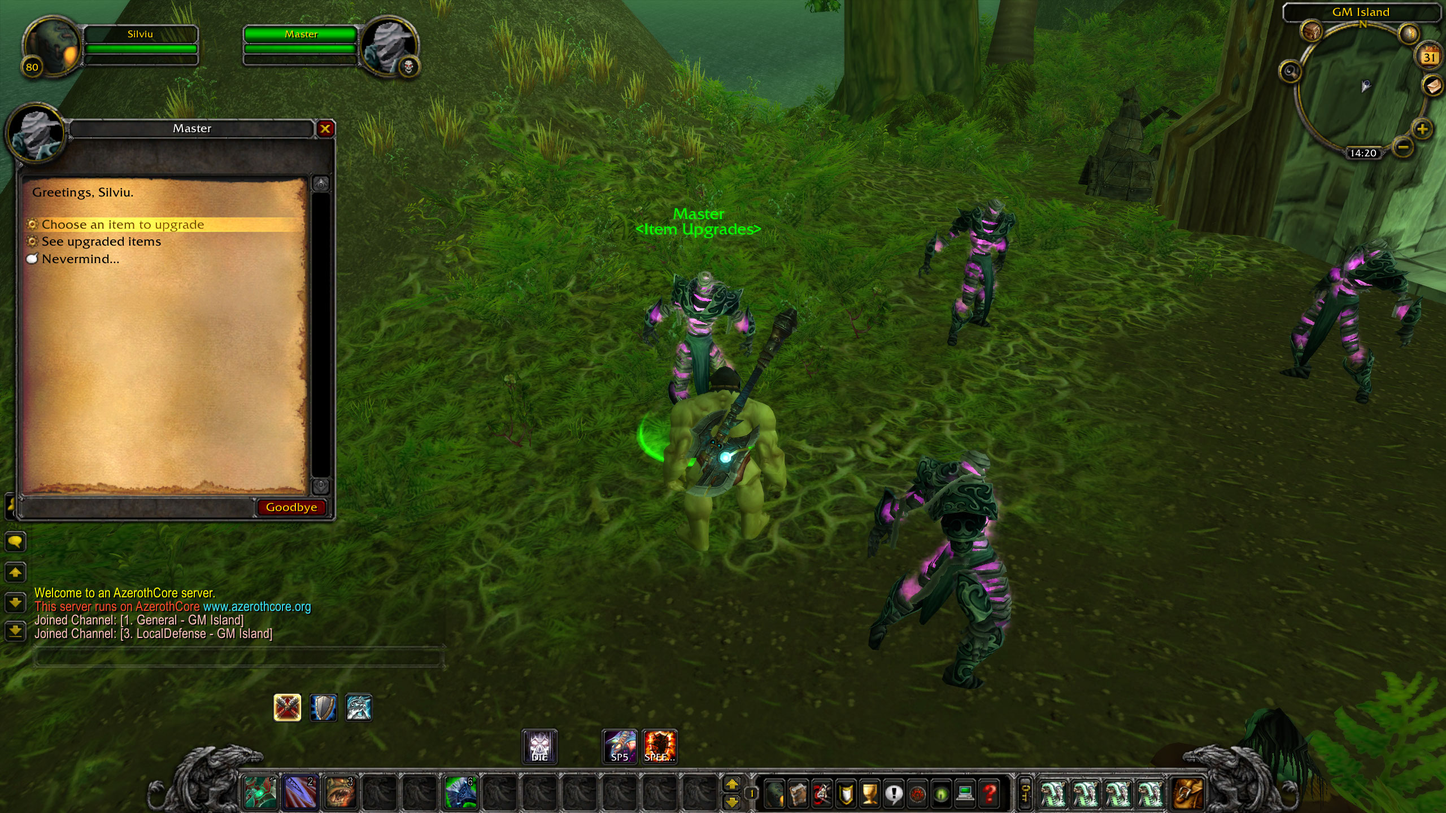
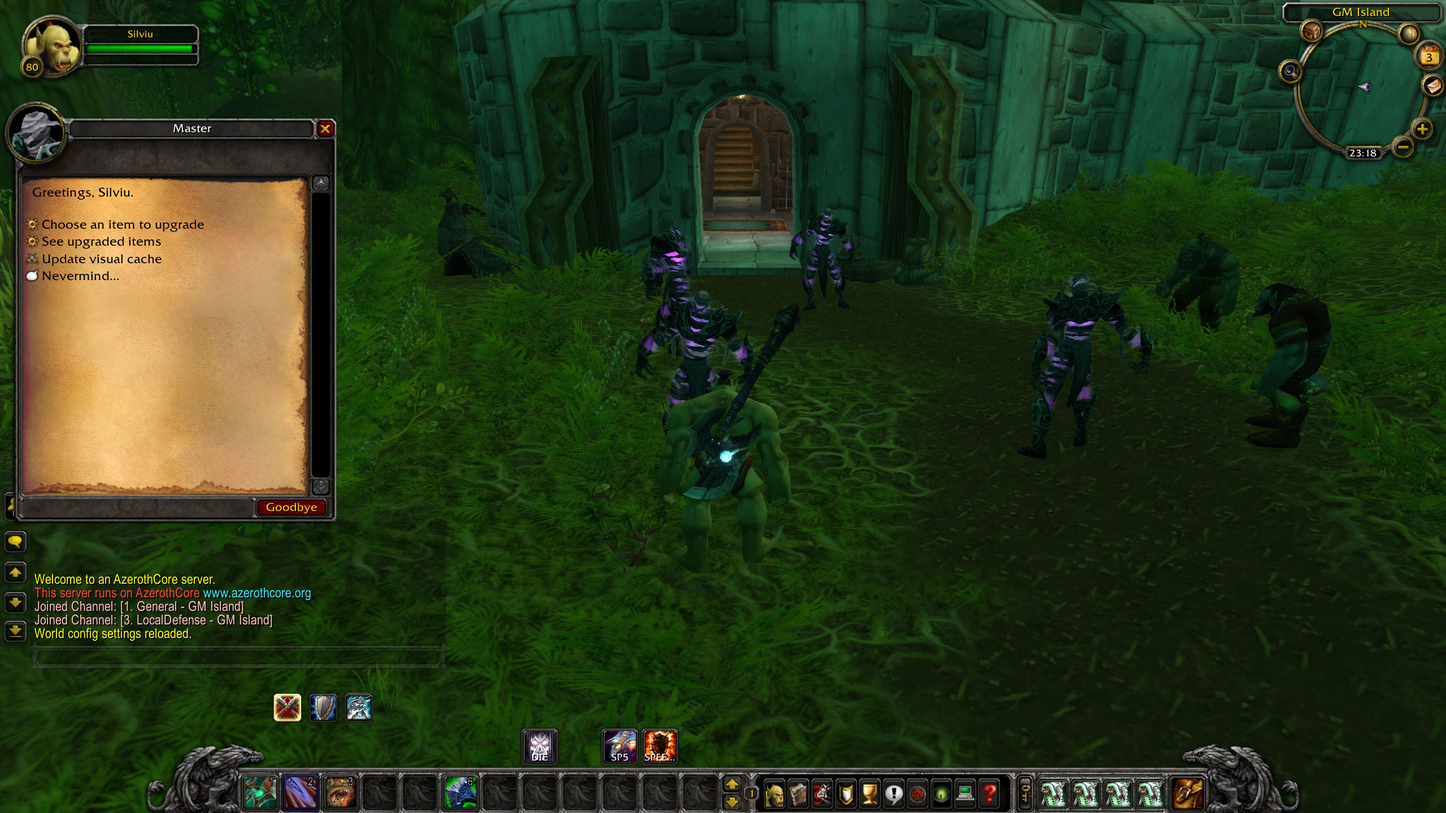
Send item packets for upgraded items (configurable, only affects visuals)

diff --git a/mod-item-upgrade/src/npc_item_upgrade.cpp b/mod-item-upgrade/src/npc_item_upgrade.cpp
@@ -39,6 +39,7 @@ public:
         {
             AddGossipItemFor(player, GOSSIP_ICON_INTERACT_1, "Choose an item to upgrade", GOSSIP_SENDER_MAIN, GOSSIP_ACTION_INFO_DEF + 2);
             AddGossipItemFor(player, GOSSIP_ICON_INTERACT_1, "See upgraded items", GOSSIP_SENDER_MAIN, GOSSIP_ACTION_INFO_DEF + 3);
+            AddGossipItemFor(player, GOSSIP_ICON_BATTLE, "Update visual cache", GOSSIP_SENDER_MAIN, GOSSIP_ACTION_INFO_DEF + 4);
         }
         AddGossipItemFor(player, GOSSIP_ICON_CHAT, "Nevermind...", GOSSIP_SENDER_MAIN, GOSSIP_ACTION_INFO_DEF + 1);
         SendGossipMenuFor(player, DEFAULT_GOSSIP_MESSAGE, creature->GetGUID());
@@ -73,6 +74,13 @@ public:
             {
                 sItemUpgrade->BuildAlreadyUpgradedItemsCatalogue(player);
                 return sItemUpgrade->AddPagedData(player, creature, 0);
+            }
+            else if (action == GOSSIP_ACTION_INFO_DEF + 4)
+            {
+                sItemUpgrade->UpdateVisualCache(player);
+                sItemUpgrade->VisualFeedback(player);
+                CloseGossipMenuFor(player);
+                return true;
             }
         }
         else if (sender == GOSSIP_SENDER_MAIN + 1)

diff --git a/mod-item-upgrade/src/item_upgrade_playerscript.cpp b/mod-item-upgrade/src/item_upgrade_playerscript.cpp
@@ -4,10 +4,30 @@
 
 #include "ScriptMgr.h"
 #include "DatabaseEnv.h"
+#include "Player.h"
 #include "item_upgrade.h"
 
 class item_upgrade_playerscript : public PlayerScript
 {
+private:
+    class SendUpgradePackets : public BasicEvent
+    {
+    public:
+        SendUpgradePackets(Player* player) : player(player)
+        {
+            player->m_Events.AddEvent(this, player->m_Events.CalculateTime(DELAY_MS));
+        }
+
+        bool Execute(uint64 /*e_time*/, uint32 /*p_time*/)
+        {
+            sItemUpgrade->UpdateVisualCache(player);
+            return true;
+        }
+    private:
+        static constexpr uint64 DELAY_MS = 3000;
+
+        Player* player;
+    };
 public:
     item_upgrade_playerscript() : PlayerScript("item_upgrade_playerscript") {}
 
@@ -20,6 +40,11 @@ public:
     {
         trans->Append("DELETE FROM character_item_upgrade WHERE guid = {}", guid);
         sItemUpgrade->HandleCharacterRemove(guid);
+    }
+
+    void OnLogin(Player* player) override
+    {
+        new SendUpgradePackets(player);
     }
 };
 

diff --git a/mod-item-upgrade/src/item_upgrade_worldscript.cpp b/mod-item-upgrade/src/item_upgrade_worldscript.cpp
@@ -11,7 +11,7 @@ class item_upgrade_worldscript : public WorldScript
 public:
     item_upgrade_worldscript() : WorldScript("item_upgrade_worldscript") {}
 
-    void OnBeforeConfigLoad(bool reload) override
+    void OnAfterConfigLoad(bool reload) override
     {
         if (reload)
         {
@@ -21,12 +21,10 @@ public:
 
             sItemUpgrade->HandleDataReload(false);
         }
-    }
 
-    void OnAfterConfigLoad(bool reload) override
-    {
         sItemUpgrade->SetEnabled(sConfigMgr->GetOption<bool>("ItemUpgrade.Enable", true));
         sItemUpgrade->LoadAllowedStats(sConfigMgr->GetOption<std::string>("ItemUpgrade.AllowedStats", ItemUpgrade::DefaultAllowedStats));
+        sItemUpgrade->SetSendItemPackets(sConfigMgr->GetOption<bool>("ItemUpgrade.SendUpgradedItemsPackets", false));
 
         if (reload)
             sItemUpgrade->HandleDataReload(true);

diff --git a/README.md b/README.md
@@ -8,9 +8,10 @@ Adds the possibility to individually upgrade items. **EVERY** stat can be upgrad
 
 ## Limitations
 
-1. Due to the nature of **WOTLK** client, the upgraded **STATS** increase will not be visible (to both the owner and other players when inspecting, or when linking the item), everyone can always see the original item stats. This can be partially resolved by sending **SMSG_ITEM_QUERY_SINGLE_RESPONSE** packet to the player, but this will show **ALL** items with the same entry as being upgraded and only the owner will see these stats anyway. So I don't bother with it.
+1. Due to the nature of **WOTLK** client, the upgraded **STATS** can only be visible to the owner.
 2. You **CAN'T** add or replace stats, you can only upgrade current item's stats.
 3. Upgrades will be lost (of course) when trading, sending mail, depositing to guild bank, deposit to auction.
+4. Heirlooms can't be upgraded.
 
 ## How to install
 
